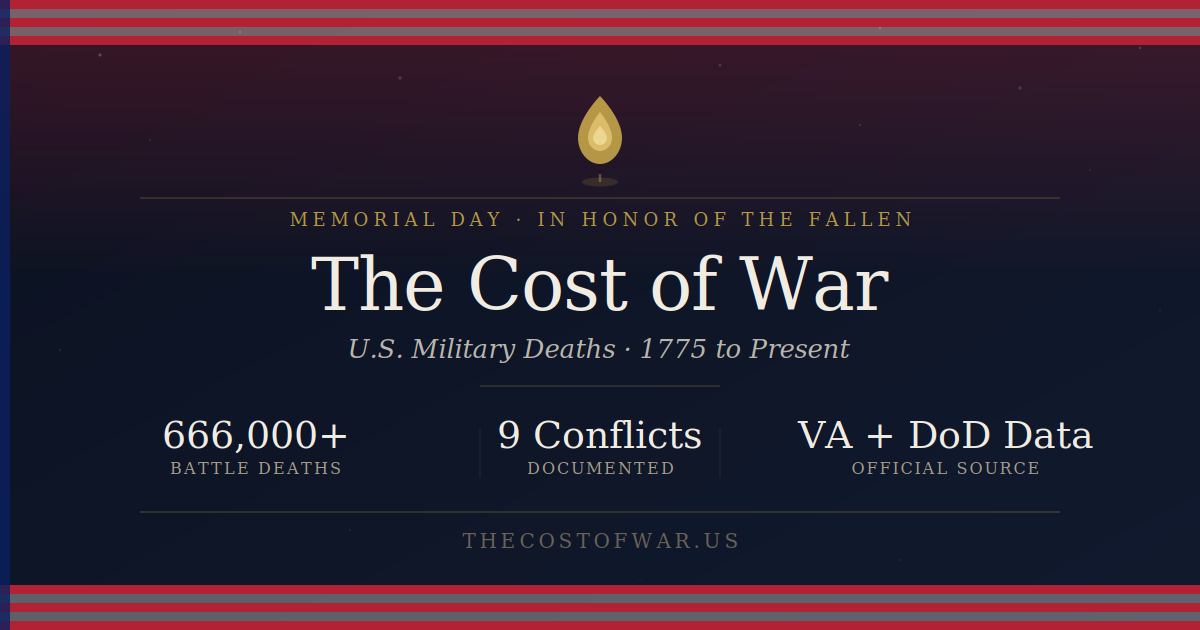
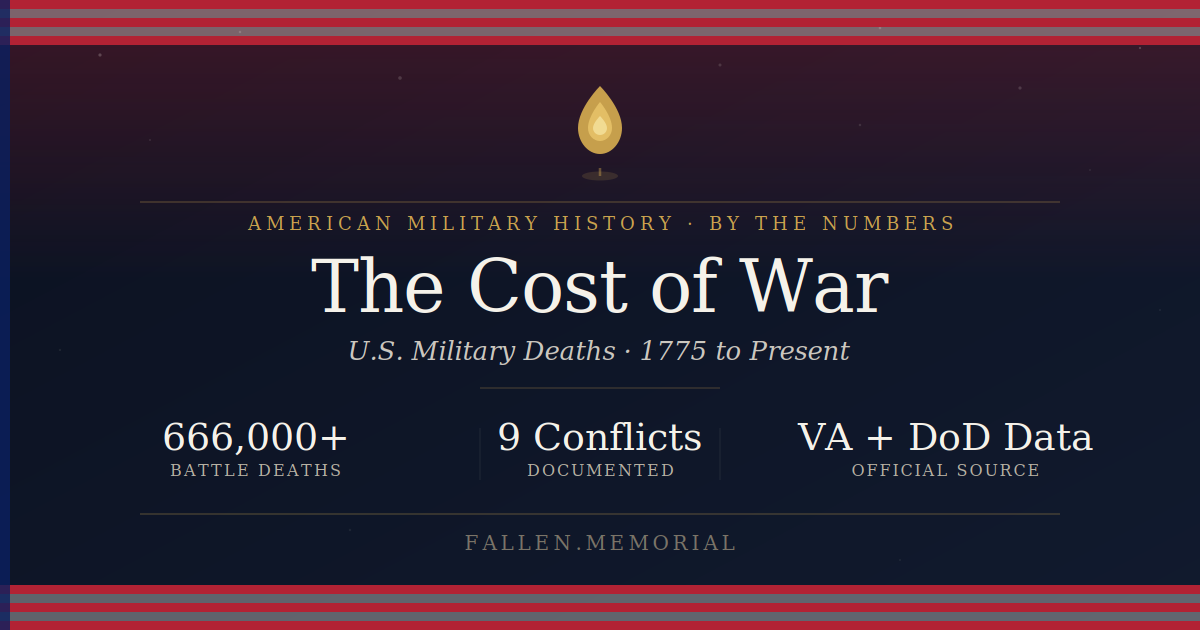
fix OG image domain, shorten title and description for SEO

diff --git a/index.html b/index.html
@@ -5,8 +5,8 @@
 <meta name="viewport" content="width=device-width, initial-scale=1.0">
 
 <!-- ── PRIMARY SEO ── -->
-<title>The Cost of War — U.S. Military Deaths Across Every American Conflict</title>
-<meta name="description" content="An interactive data dashboard covering U.S. military casualties from the Revolutionary War to Afghanistan. Built for students, researchers, veterans, and anyone who wants to understand the true cost of American wars. Data from the VA and DoD.">
+<title>The Cost of War — U.S. Military Deaths, 1775 to Present</title>
+<meta name="description" content="An interactive dashboard of U.S. military casualties across every American war. Built for students, researchers, veterans, and families. Data from the VA and DoD.">
 <meta name="keywords" content="US military deaths, American war casualties, Memorial Day, veterans, battle deaths by war, Civil War casualties, Vietnam War deaths, Iraq War casualties, Department of Veterans Affairs, cost of war, fallen soldiers">
 <meta name="author" content="ryandesigns.dev">
 <meta name="robots" content="index, follow">
@@ -15,8 +15,8 @@
 <!-- ── OPEN GRAPH (Facebook, LinkedIn, etc.) ── -->
 <meta property="og:type" content="website">
 <meta property="og:url" content="https://fallen.memorial/">
-<meta property="og:title" content="The Cost of War — U.S. Military Deaths Across Every American Conflict">
-<meta property="og:description" content="Every number on this page was a person. An interactive memorial honoring U.S. military deaths from 1775 to present — with context the raw numbers alone don't show.">
+<meta property="og:title" content="The Cost of War — U.S. Military Deaths, 1775 to Present">
+<meta property="og:description" content="Every number was a person. An interactive memorial covering U.S. military deaths across every American conflict — with context the raw numbers don't show.">
 <meta property="og:image" content="https://fallen.memorial/og-image.png">
 <meta property="og:site_name" content="fallen.memorial">
 <meta property="og:locale" content="en_US">
@@ -24,8 +24,8 @@
 <!-- ── TWITTER / X CARD ── -->
 <meta name="twitter:card" content="summary_large_image">
 <meta name="twitter:url" content="https://fallen.memorial/">
-<meta name="twitter:title" content="The Cost of War — U.S. Military Deaths Across Every American Conflict">
-<meta name="twitter:description" content="Every number on this page was a person. An interactive memorial honoring U.S. military deaths from 1775 to present.">
+<meta name="twitter:title" content="The Cost of War — U.S. Military Deaths, 1775 to Present">
+<meta name="twitter:description" content="Every number was a person. An interactive memorial covering U.S. military deaths across every American conflict — with context the raw numbers don't show.">
 <meta name="twitter:image" content="https://fallen.memorial/og-image.png">
 
 <!-- ── STRUCTURED DATA (Google rich results) ── -->
@@ -36,7 +36,7 @@
   "name": "The Cost of War",
   "alternateName": "fallen.memorial",
   "url": "https://fallen.memorial/",
-  "description": "An interactive data dashboard covering U.S. military casualties from the Revolutionary War to Afghanistan. Data sourced from the VA and DoD.",
+  "description": "An interactive dashboard of U.S. military casualties across every American war, from the Revolutionary War to Afghanistan. Data from the VA and DoD.",
   "author": {
     "@type": "Person",
     "name": "Ryan",